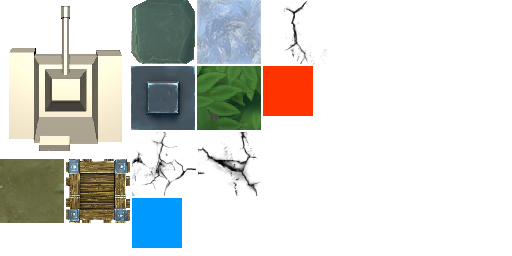
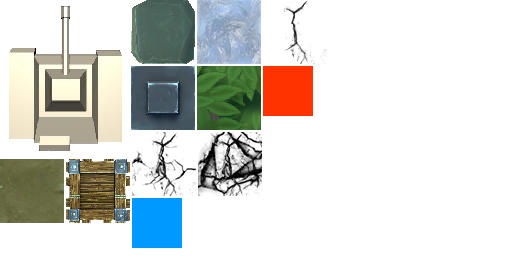
crack optimize include apCell

Changed region(s): [[0.2812, 0.5, 0.5312, 0.7812]]

diff --git a/src/csCommons/models/battles/BattleModel_Ticker.ts b/src/csCommons/models/battles/BattleModel_Ticker.ts
@@ -86,7 +86,7 @@ namespace models.battles {
                         bullet.x = tank.x;
                         bullet.y = tank.y;
                         bullet.moveDir = tank.dir;
-                        this.model.adder.addBulletVo(bullet);
+                        this.model.changer.addBullet(bullet);
                     }
                     skillVo.isTriggerOnce = false;
                 }
@@ -100,14 +100,14 @@ namespace models.battles {
                 let vo: BulletVo = this.model.bulletMap[uid];
                 if (vo.stateA == BattleVoStateA.Living) {//可能被其它bullet击中了
                     if (QuadTree.isInner(vo.hitRect, this.model.qtBullet.rect) == false) {
-                        this.model.adder.removeBullet(vo);
+                        this.model.changer.removeBullet(vo);
                     } else {
-                        this.checkBulletHit(vo);
+                        this.checkBulletHitBullet(vo);
                     }
                 }
             }
         }
-        checkBulletHit(bullet: BulletVo) {
+        checkBulletHitBullet(bullet: BulletVo) {
             let bulletDump: boolean = false;
             // console.log("[info]", vo.uid, "`vo.uid` checkBulletHitTest");
             let hitArr: IQuadTreeItem[] = this.model.qtBullet.retrieve(bullet.hitRect);
@@ -116,13 +116,13 @@ namespace models.battles {
                 let hitBullet: BulletVo = (<QuadTreeHitRect>item).owner as BulletVo;
                 if (bullet.group != hitBullet.group) {
                     if (BattleModelUtil.checkHit(bullet.hitRect, item)) {
-                        this.model.frameOutputs.push(new BattleFrameIOItem(BattleFrameOutputKind.BulletHitBullet, this.model.currFrame,bullet.ownerUid,bullet.uid, hitBullet.uid));
+                        this.model.frameOutputs.push(new BattleFrameIOItem(BattleFrameOutputKind.BulletHitBullet, this.model.currFrame, bullet.ownerUid, bullet.uid, hitBullet.uid));
                         let oldApTank = bullet.apTank;
                         bullet.apTank -= hitBullet.apTank;
                         hitBullet.apTank -= oldApTank;
                         if (hitBullet.apTank <= 0) {
                             hitBullet.apTank = 0;
-                            this.model.adder.removeBullet(hitBullet);
+                            this.model.changer.removeBullet(hitBullet);
                         }
                         if (bullet.apTank <= 0) {
                             bullet.apTank = 0;
@@ -134,40 +134,39 @@ namespace models.battles {
             }
             //---next
             if (bulletDump) {
-                this.model.adder.removeBullet(bullet);
+                this.model.changer.removeBullet(bullet);
             } else {
                 this.checkBulletHitCell(bullet);
             }
         }
-        checkBulletHitCell(bullet:BulletVo) {
+        checkBulletHitCell(bullet: BulletVo) {
+            let a =1;
             let bulletDump: boolean = false;
             let hitArr = this.model.qtCell.retrieve(bullet.hitRect);
             for (let i = 0; i < hitArr.length; i++) {
-                let item = hitArr[i];
-                let cellVo = ((<QuadTreeHitRect>item).owner as CellVo);
-                if (cellVo.sid != StcCellSid.floor && cellVo.sid != StcCellSid.river) {
-                    if (BattleModelUtil.checkHit(bullet.hitRect, item)) {
-                        // console.log("[debug]","hit:",vo.hitRect,item,(<QuadTreeHitRect>item).owner.uid);
-                        if (cellVo.sid != StcCellSid.block) {
-                            let apCellLv:CellLv = <CellLv>(Math.floor(bullet.apCell/BattleModelConfig.si.cellHpMax));
-                            if(apCellLv>=cellVo.cellLv){
-                                cellVo.hp -= bullet.apCell%BattleModelConfig.si.cellHpMax;
-                                if (cellVo.hp <= 0) {
-                                    cellVo.hp = 0;
-                                    cellVo.sid = StcCellSid.floor;
-                                    QuadTree.removeItem(item);
-                                    cellVo.disposeHitRect();
+                let hitItem = hitArr[i];
+                let hitCellVo = ((<QuadTreeHitRect>hitItem).owner as CellVo);
+                if (hitCellVo.sid != StcCellSid.floor && hitCellVo.sid != StcCellSid.river) {
+                    if (BattleModelUtil.checkHit(bullet.hitRect, hitItem)) {
+                        if (hitCellVo.sid != StcCellSid.block) {
+                            let apCellLv: number = BattleModelUtil.getApCellLv(bullet.apCell);
+                            if (apCellLv > hitCellVo.sid) {
+                                this.model.changer.clearCell(hitCellVo)
+                            } else if (apCellLv == hitCellVo.sid) {
+                                hitCellVo.hp -= BattleModelUtil.getApCellReal(bullet.apCell,hitCellVo.sid);
+                                if (hitCellVo.hp <= 0) {
+                                    this.model.changer.clearCell(hitCellVo)
                                 }
                             }
                         }
-                        this.model.frameOutputs.push(new BattleFrameIOItem(BattleFrameOutputKind.BulletHitCell, this.model.currFrame, bullet.ownerUid, bullet.uid, cellVo.uid));
+                        this.model.frameOutputs.push(new BattleFrameIOItem(BattleFrameOutputKind.BulletHitCell, this.model.currFrame, bullet.ownerUid, bullet.uid, hitCellVo.uid));
                         bulletDump = true;//不需要break, 因为可以hit多个cell,但只要击中一个就要dump
                     }
                 }
             }
             //---next
             if (bulletDump) {
-                this.model.adder.removeBullet(bullet);
+                this.model.changer.removeBullet(bullet);
             } else {
                 this.checkBulletHitTank(bullet);
             }
@@ -201,14 +200,14 @@ namespace models.battles {
                                 hitTank.hp -= bullet.apTankMax;
                                 if (hitTank.hp <= 0) {
                                     hitTank.hp = 0;
-                                    this.model.adder.removeTank(hitTank);
+                                    this.model.changer.removeTank(hitTank);
                                 }
                             } else if (hitTank.group == BattleGroup.Player) {
                                 if (bullet.group == BattleGroup.CPU) {
                                     hitTank.hp -= bullet.apTankMax;
                                     if (hitTank.hp <= 0) {
                                         hitTank.hp = 0;
-                                        this.model.adder.rebirthTank(hitTank);
+                                        this.model.changer.rebirthTank(hitTank);
                                     }
                                 } else if (bullet.group == BattleGroup.Player) {
                                     // this.owner.adder.addBuff(attackTank,)//TODO: add freeze/palsy
@@ -226,7 +225,7 @@ namespace models.battles {
                 }
             }
             if (bulletDump) {
-                this.model.adder.removeBullet(bullet);
+                this.model.changer.removeBullet(bullet);
             }
         }
         checkTankHitTest(vo: TankVo): IQuadTreeItem {

diff --git a/src/csCommons/models/battles/BattleModel_Changer.ts b/src/csCommons/models/battles/BattleModel_Changer.ts
@@ -2,7 +2,7 @@ namespace models.battles {
     /**
      * 为BattleModel添加新物品的方法集合
      */
-    export class BattleModel_Adder {
+    export class BattleModel_Changer {
         public model: BattleModel;
         constructor(model: BattleModel) {
             this.model = model;
@@ -14,12 +14,12 @@ namespace models.battles {
             vo.x = BattleModelUtil.gridToPos(position.col);
             vo.y = BattleModelUtil.gridToPos(position.row);
             vo.dir = position.dir;
-            this.addTankVo(vo);
+            this.addTank(vo);
             return vo;
         }
-        addTankVo(vo: TankVo) {
+        addTank(vo: TankVo) {
             vo.apTank = 50;
-            vo.apCell = 250;
+            vo.apCell = 220;
             vo.hp = vo.hpMax = 200;
             vo.yOld = vo.y;
             vo.stateA = BattleVoStateA.Living;
@@ -46,7 +46,6 @@ namespace models.battles {
             this.model.frameOutputs.push(new BattleFrameIOItem(BattleFrameOutputKind.AddTank, this.model.currFrame,vo.uid));
         }
         rebirthTank(vo:TankVo){
-            // vo.stateA = BattleVoStateA.Rebirth;
             vo.hp = vo.hpMax;
             vo.stateFrame = 0;
             vo.moveDir = Direction4.None;
@@ -61,7 +60,7 @@ namespace models.battles {
             //
             this.model.frameOutputs.push(new BattleFrameIOItem(BattleFrameOutputKind.RebirthTank, this.model.currFrame,vo.uid));
         }
-        addBulletVo(vo: BulletVo) {
+        addBullet(vo: BulletVo) {
             vo.xOld = vo.x;
             vo.yOld = vo.y;
             vo.moveSpeedPerFrame = BattleModelConfig.si.bulletMoveSpeedPerFrame;
@@ -74,7 +73,7 @@ namespace models.battles {
             this.model.frameOutputs.push(new BattleFrameIOItem(BattleFrameOutputKind.AddBullet, this.model.currFrame, vo.ownerUid, vo.uid));
         }
         /*cell's pivot is left-top*/
-        addCellVo(vo: CellVo) {
+        addCell(vo: CellVo) {
             vo.hp = vo.hpMax = BattleModelConfig.si.cellHpMax;
             this.model.cellMap[vo.uid] = vo;
             if (vo.sid != StcCellSid.floor && vo.sid!=StcCellSid.cover) {
@@ -82,6 +81,14 @@ namespace models.battles {
                 vo.hitRect.recountLeftTop(vo.x, vo.y, BattleModelConfig.si.cellSize, BattleModelConfig.si.cellSize);
                 this.model.qtCell.insert(vo.hitRect);
             }
+        }
+        clearCell(cell:CellVo){
+            cell.hp = 0;
+            cell.sid = StcCellSid.floor;
+            if(cell.hitRect){
+                QuadTree.removeItem(cell.hitRect);
+            }
+            cell.disposeHitRect();
         }
         removeBullet(vo: BulletVo) {
             vo.stateA = BattleVoStateA.Dump;

diff --git a/src/csCommons/models/battles/BattleModel.ts b/src/csCommons/models/battles/BattleModel.ts
@@ -1,7 +1,7 @@
 namespace models.battles {
     export class BattleModel {
         public facade: ModelFacade;
-        public adder: BattleModel_Adder = new BattleModel_Adder(this);
+        public changer: BattleModel_Changer = new BattleModel_Changer(this);
         public ticker: BattleModel_Ticker = new BattleModel_Ticker(this);
         public buffer:BattleModel_Buffer = new BattleModel_Buffer(this);
         //===
@@ -64,8 +64,7 @@ namespace models.battles {
                     vo.sid = this.stcMapVo.cells[row][col];
                     vo.x = models.battles.BattleModelUtil.gridToPos(col);
                     vo.y = models.battles.BattleModelUtil.gridToPos(row);
-                    vo.cellLv = <CellLv>(vo.sid-1);
-                    this.adder.addCellVo(vo);
+                    this.changer.addCell(vo);
                 }
             }
         }
@@ -81,7 +80,7 @@ namespace models.battles {
         }
         initTanks() {
             for (let i = 0; i < this.stcMapVo.positions.length; i++) {
-                let tankVo = this.adder.addTankByIStcMapVoPlayer(this.stcMapVo.positions[i]);
+                let tankVo = this.changer.addTankByIStcMapVoPlayer(this.stcMapVo.positions[i]);
                 tankVo.initIndex = i;
                 if (i == 0) {
                     tankVo.group = BattleGroup.Player;

diff --git a/src/csCommons/models/battles/BattleModelUtil.ts b/src/csCommons/models/battles/BattleModelUtil.ts
@@ -46,6 +46,25 @@ namespace models.battles {
         static msToKeyFrame(ms: number): number {
             return Math.round(ms * BattleModelConfig.si.modelKeyFrameRate / 1000);
         }
+        /**
+         * 得到攻击cell的等级 结果和StcCellSid.Wood/Stone/Iron一致
+         * @param apCell 
+         * 0 => 0
+         * 1~100 => 1
+         * 2~200 => 2
+         * 3~300 => 3
+         */
+        static getApCellLv(apCell:number){
+            return Math.ceil(apCell/BattleModelConfig.si.cellHpMax);
+        }
+        /**
+         * 得到对同级cell造成的伤害 外侧已经计算过对低等级cell的处理
+         * @param apCell 
+         * @param targetCellLv 目标cell的等级
+         */
+        static getApCellReal(apCell:number,targetCellLv:number){
+            return apCell-(targetCellLv-1)*BattleModelConfig.si.cellHpMax;
+        }
         
     }
 }

diff --git a/src/ctrls/battles/BattleCtrlUtil.ts b/src/ctrls/battles/BattleCtrlUtil.ts
@@ -2,9 +2,14 @@ class BattleCtrlUtil{
     static initCrack(ui:fuis.battles_1.UI_Crack){
         ui.m_lv.selectedIndex = 0;
     }
-    /** 调用这个函数的 currVal 必须>0 */
+    /** 设置crack的显示效果 
+     * 调用这个函数时 currVal 必须>0 currVal必须<=maxVal*/
     static refreshCrack(ui:fuis.battles_1.UI_Crack,currVal:number,maxVal:number){
-        let quarter:number = maxVal/4;
-        ui.m_lv.selectedIndex = 4-Math.ceil(currVal/quarter);
+        //-- 掉血量1-25时不显示裂痕
+        // let quarter:number = maxVal/4;
+        // ui.m_lv.selectedIndex = 4-Math.ceil(currVal/quarter);
+        //-- 掉血了就显示裂痕
+        let third:number = maxVal/3;
+        ui.m_lv.selectedIndex = Math.ceil((maxVal-currVal)/third);
     }
 }

diff --git a/src/csCommons/models/battles/BattleModelFactory.ts b/src/csCommons/models/battles/BattleModelFactory.ts
@@ -31,7 +31,7 @@ namespace models.battles {
                 let ai: TankAI = new TankAI();
                 ai.owner = vo;
                 this.model.aiTankMap[vo.uid] = ai;
-                this.model.adder.addTankVo(vo);
+                this.model.changer.addTank(vo);
                 //
                 this.currIndex++;
                 if(this.currIndex>=this.stcVo.values.length){

diff --git a/src/proxies/battles/BattleProxy.ts b/src/proxies/battles/BattleProxy.ts
@@ -29,7 +29,7 @@ class BattleProxy {
             this.isKeyFrame = true;
         }
         if (this.isKeyFrame) {
-            this.model.adder.removeDumpAll();
+            this.model.changer.removeDumpAll();
             this.model.frameInputs = this.frameInputMgr.optimize(this.currFrame);
             this.model.currKeyFrame = this.currKeyFrame = this.currKeyFrame + 1;
         }

diff --git a/src/csCommons/tslib/utils/QuadTree.ts b/src/csCommons/tslib/utils/QuadTree.ts
@@ -100,9 +100,9 @@ class QuadTree {
         }
     }
     static removeItem(item: IQuadTreeItem) {
-        if(item.ownerQuadTree){
+        // if(item.ownerQuadTree){
             item.ownerQuadTree.__removeItem(item);
-        }
+        // }
     }
     private __removeItem(item: IQuadTreeItem) {
         if (item.preItem != null) {

diff --git a/src/csCommons/models/battles/BattleModelConst.ts b/src/csCommons/models/battles/BattleModelConst.ts
@@ -3,17 +3,11 @@ namespace models.battles {
         None = 0,
         Living = 1,
         Dump = 4,
-        Rebirth = 5,
     }
     export enum BattleGroup{
         None = 0,
         Player,
         CPU,
         NPC,
-    }
-    export enum CellLv{
-        Wood = 0,
-        Stone = 1,
-        Iron = 2,
     }
 }

diff --git a/src/csCommons/models/battles/BattleVos.ts b/src/csCommons/models/battles/BattleVos.ts
@@ -71,7 +71,7 @@ namespace models.battles {
         public moveSpeedPerFrame: number;
     }
     export class CellVo extends EntityVo {
-        cellLv:CellLv;
+        
     }
     //
     export class TankVo extends MovableEleVo {
